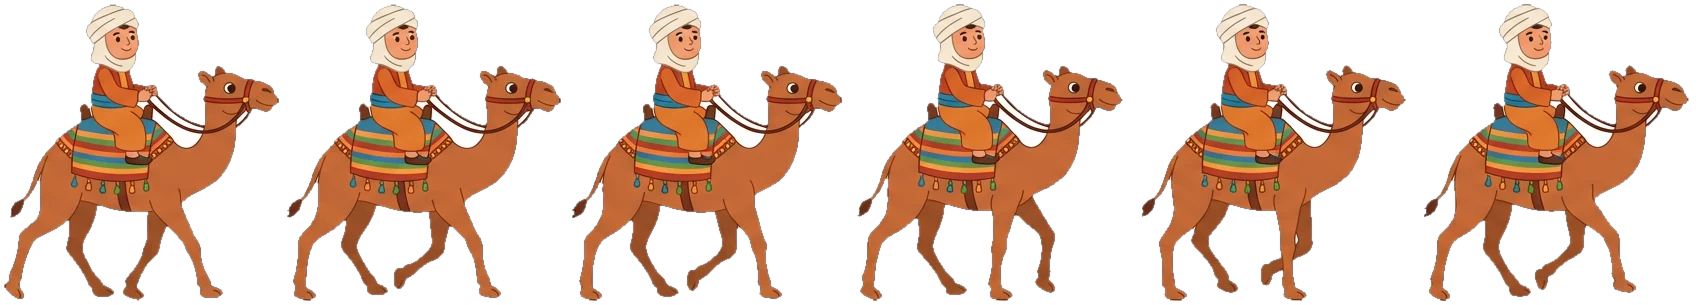
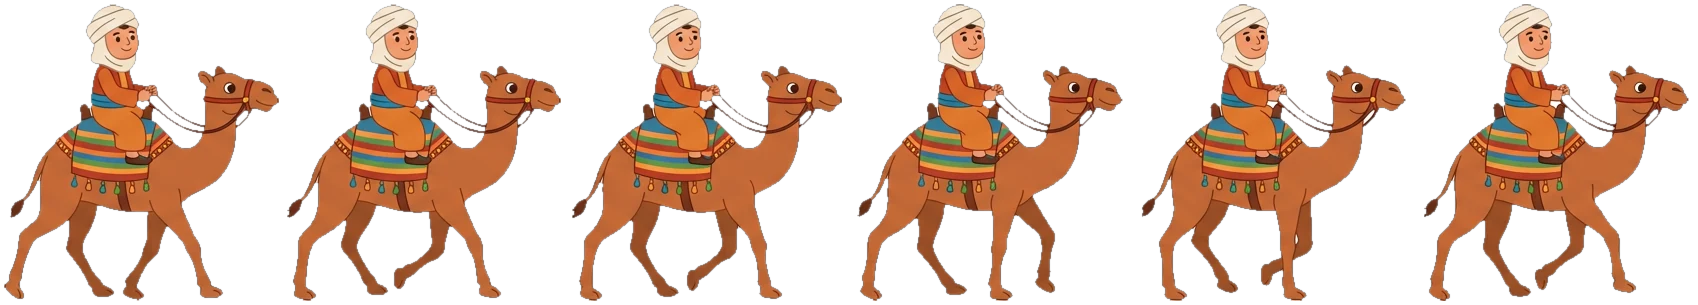
Frise : transparence complète des interstices, déplacement doublé
Toutes les poches de fond enfermées ≥ 30 px deviennent transparentes
(rayons des roues, entre le cycliste et son cadre, entre les chevaux
et le char) — vérifié sur fond coloré que les blancs peints
(chaussettes, casquette, turban) restent intacts. Déplacement
horizontal des personnages porté de 22 % à 50 % de la vitesse du
ruban.

Claude-Session: https://claude.ai/code/session_01MoSM3c75amsanL64Sy4Ynm

diff --git a/erea_flutter/lib/ui/tape_widget.dart b/erea_flutter/lib/ui/tape_widget.dart
@@ -347,9 +347,9 @@ class _TapePainter extends CustomPainter {
           final n = math.max(1, bandW ~/ 640);
           final spacing = bandW / n;
           // Les personnages avancent réellement : ils traversent leur
-          // époque au fil du défilement (22 % de la vitesse du ruban)
+          // époque au fil du défilement (50 % de la vitesse du ruban)
           // et reviennent par l'autre bord.
-          final drift = frac * tapeW * 0.22;
+          final drift = frac * tapeW * 0.50;
           final sprTop = bandBottom - sprH - 2 + sprH * spec.dyFrac;
           for (var k = 0; k < n; k++) {
             final off = (spacing * (k + 0.5) - drift) % bandW;
